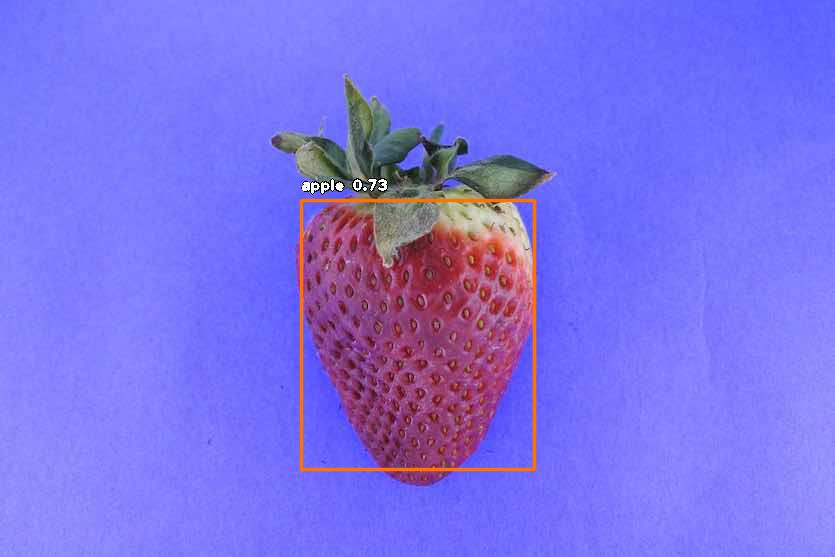
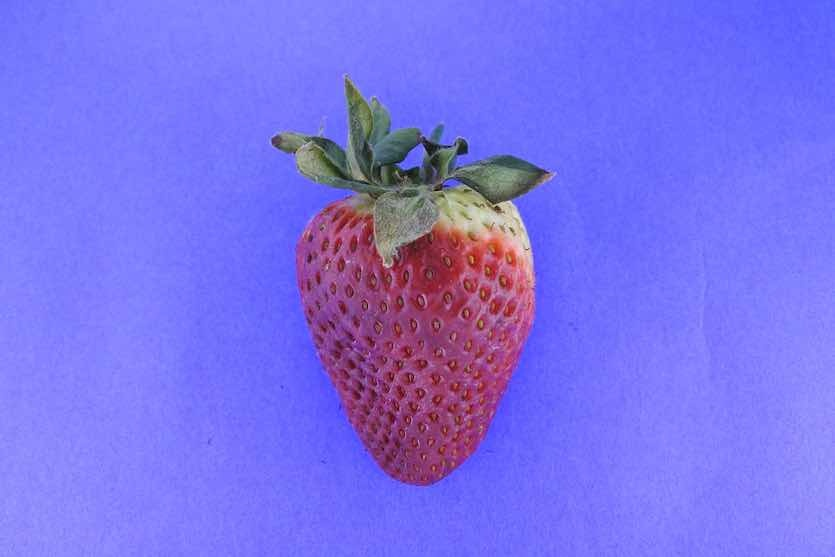
Added Custom Object Detection

Changed region(s): [[0.3425, 0.3052, 0.6539, 0.8546]]

diff --git a/CustomObjectDetection.py b/CustomObjectDetection.py
@@ -1,0 +1,10 @@
+from imageai.Detection.Custom import CustomObjectDetection
+
+detector = CustomObjectDetection()
+detector.setModelTypeAsYOLOv3()
+detector.setModelPath("CSC480-AI-Project/Strawberries/models/detection_model-ex-019--loss-0001.208.h5") 
+detector.setJsonPath("CSC480-AI-Project/Strawberries/json/detection_config.json")
+detector.loadModel()
+detections = detector.detectObjectsFromImage(input_image="CSC480-AI-Project/image_inputs/image2.jpg", output_image_path="CSC480-AI-Project/image_outputs/image3_new.jpg")
+for detection in detections:
+    print(detection["name"], " : ", detection["percentage_probability"], " : ", detection["box_points"])

diff --git a/FirstDetection.py b/FirstDetection.py
@@ -6,7 +6,7 @@ inputs = os.path.join(execution_path, "image_inputs/")
 
 detector = ObjectDetection()
 detector.setModelTypeAsYOLOv3()
-detector.setModelPath( os.path.join(execution_path , "pretrained-yolov3.h5"))
+detector.setModelPath( os.path.join(execution_path , "CSC480-AI-Project/Strawberries/models/detection_model-ex-019--loss-0001.208.h5"))
 detector.loadModel()
 if not os.path.exists("image_outputs"):
     os.makedirs("image_outputs")
